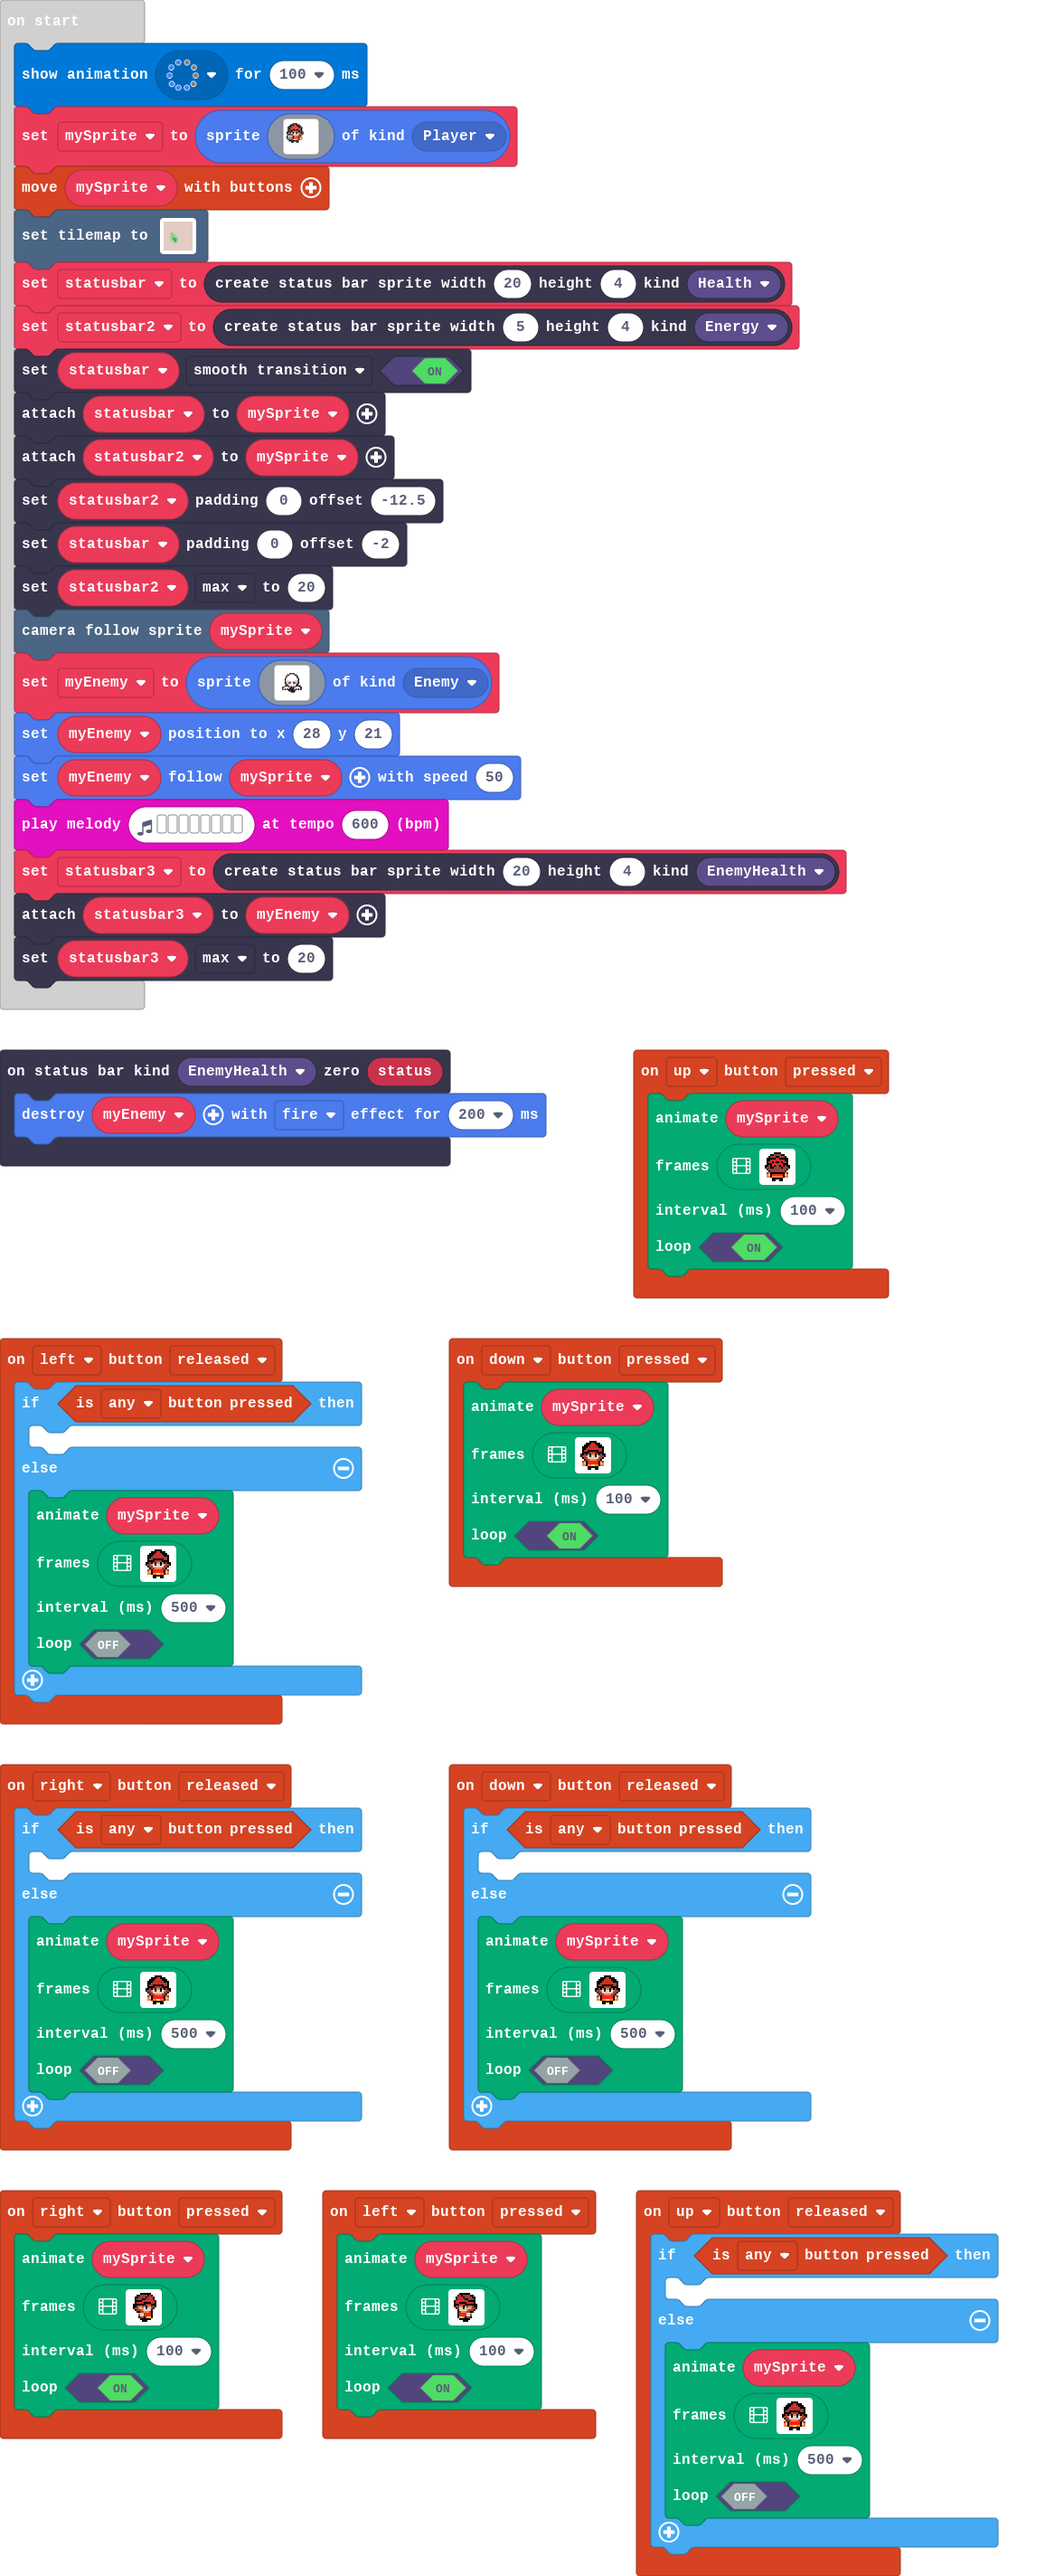
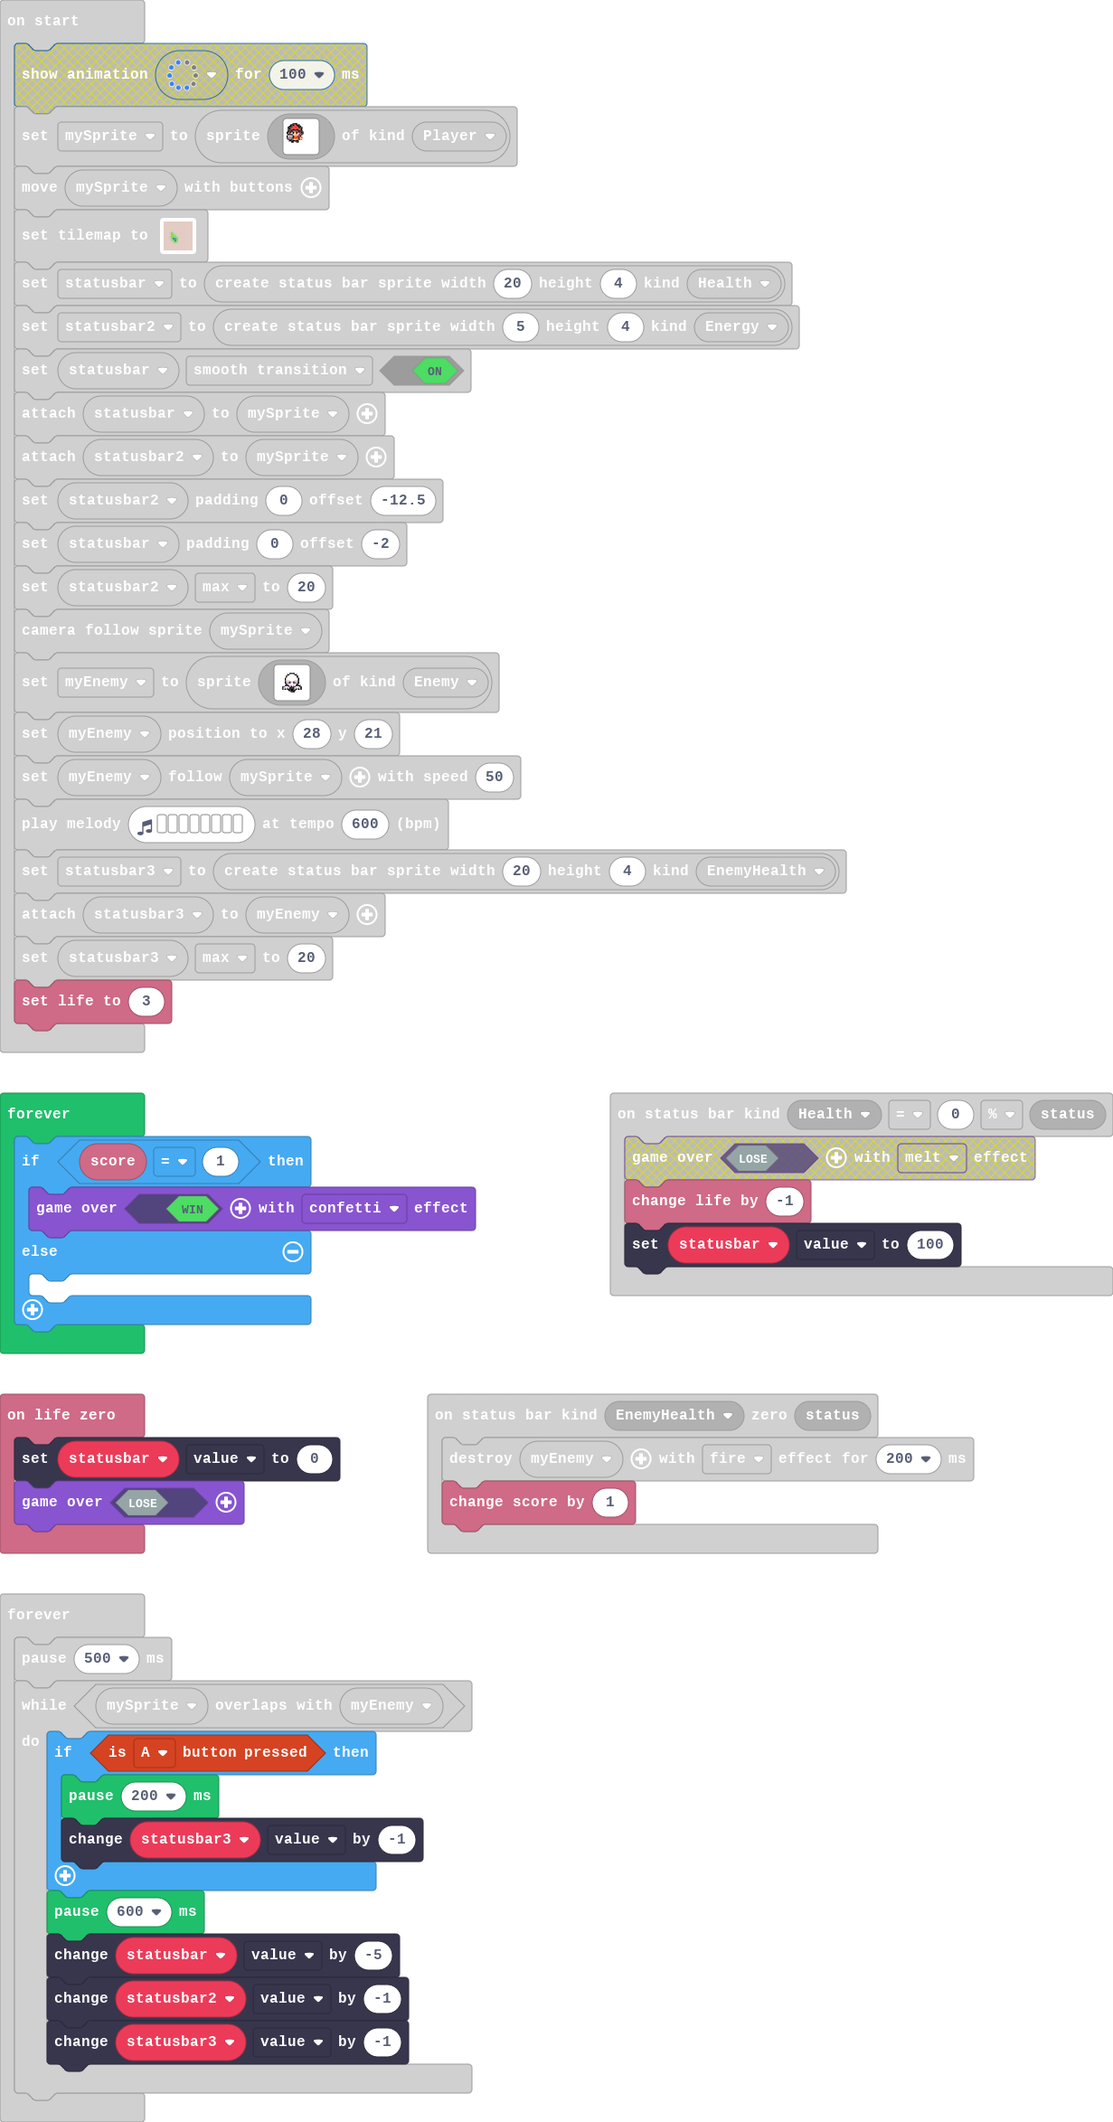
Added attack system, improved life system, and made it so you can win

diff --git a/main.ts b/main.ts
@@ -1,6 +1,9 @@
 enum RadioMessage {
     message1 = 49434
 }
+namespace StatusBarKind {
+    export const Kills = StatusBarKind.create()
+}
 controller.up.onEvent(ControllerButtonEvent.Pressed, function () {
     animation.runImageAnimation(
     mySprite,
@@ -244,10 +247,12 @@ controller.left.onEvent(ControllerButtonEvent.Released, function () {
     }
 })
 statusbars.onStatusReached(StatusBarKind.Health, statusbars.StatusComparison.EQ, statusbars.ComparisonType.Percentage, 0, function (status) {
-    game.over(false)
+    info.changeLifeBy(-1)
+    statusbar.value = 100
 })
 statusbars.onZero(StatusBarKind.EnemyHealth, function (status) {
     myEnemy.destroy(effects.fire, 200)
+    info.changeScoreBy(1)
 })
 controller.right.onEvent(ControllerButtonEvent.Pressed, function () {
     animation.runImageAnimation(
@@ -430,13 +435,17 @@ controller.down.onEvent(ControllerButtonEvent.Pressed, function () {
     true
     )
 })
+info.onLifeZero(function () {
+    statusbar.value = 0
+    game.over(false)
+})
 controller.combos.attachSpecialCode(function () {
     statusbar3.value += -10
 })
 let statusbar3: StatusBarSprite = null
 let myEnemy: Sprite = null
+let statusbar: StatusBarSprite = null
 let mySprite: Sprite = null
-light.showAnimation(light.colorWipeAnimation, 100)
 mySprite = sprites.create(img`
     ........................
     .....ffff...............
@@ -482,7 +491,7 @@ tiles.setTilemap(tiles.createTilemap(hex`100010000101010101010101010101010101010
     . . . . . . . . . . . . . . . . 
     . . . . . . . . . . . . . . . . 
     `, [myTiles.transparency16,sprites.castle.tilePath5,sprites.castle.tileGrass1,sprites.castle.tileGrass3,sprites.castle.tileGrass2,sprites.castle.tilePath6,sprites.castle.tilePath7,sprites.castle.tileDarkGrass3,sprites.castle.tileDarkGrass2,sprites.castle.tileDarkGrass1,sprites.castle.tilePath3,sprites.castle.tilePath1,sprites.castle.tilePath8], TileScale.Sixteen))
-let statusbar = statusbars.create(20, 4, StatusBarKind.Health)
+statusbar = statusbars.create(20, 4, StatusBarKind.Health)
 let statusbar2 = statusbars.create(5, 4, StatusBarKind.Energy)
 statusbar.setStatusBarFlag(StatusBarFlag.SmoothTransition, true)
 statusbar.attachToSprite(mySprite)
@@ -523,11 +532,23 @@ music.playMelody("C E F C5 G B C5 - ", 600)
 statusbar3 = statusbars.create(20, 4, StatusBarKind.EnemyHealth)
 statusbar3.attachToSprite(myEnemy)
 statusbar3.max = 20
+info.setLife(3)
+forever(function () {
+    if (info.score() == 1) {
+        game.over(true)
+    } else {
+    	
+    }
+})
 forever(function () {
     pause(500)
     while (mySprite.overlapsWith(myEnemy)) {
-        pause(500)
-        statusbar.value += -10
+        if (controller.A.isPressed()) {
+            pause(200)
+            statusbar3.value += -1
+        }
+        pause(600)
+        statusbar.value += -5
         statusbar2.value += -1
         statusbar3.value += -1
     }
